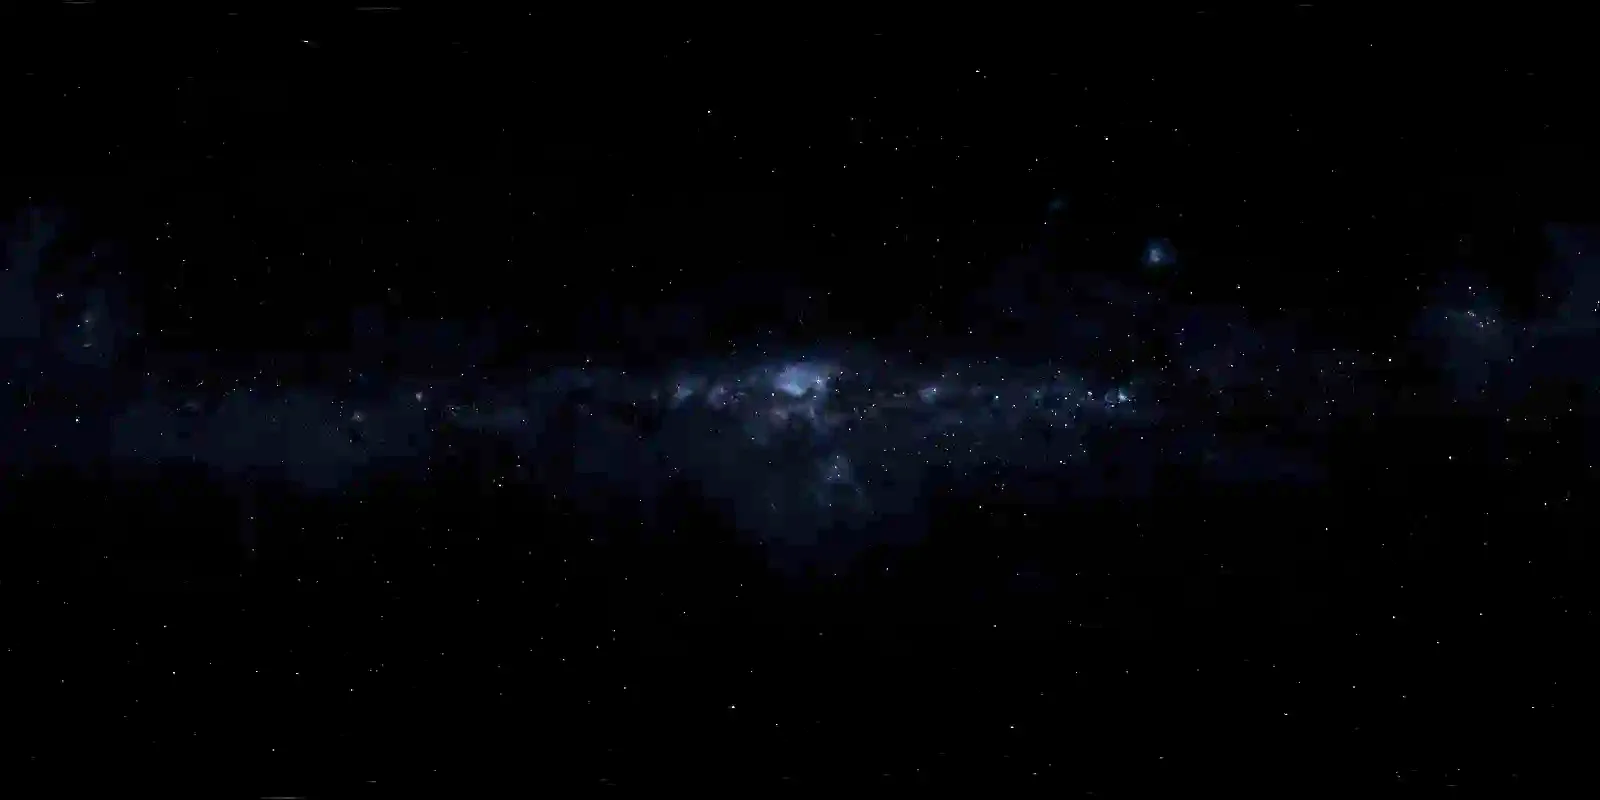
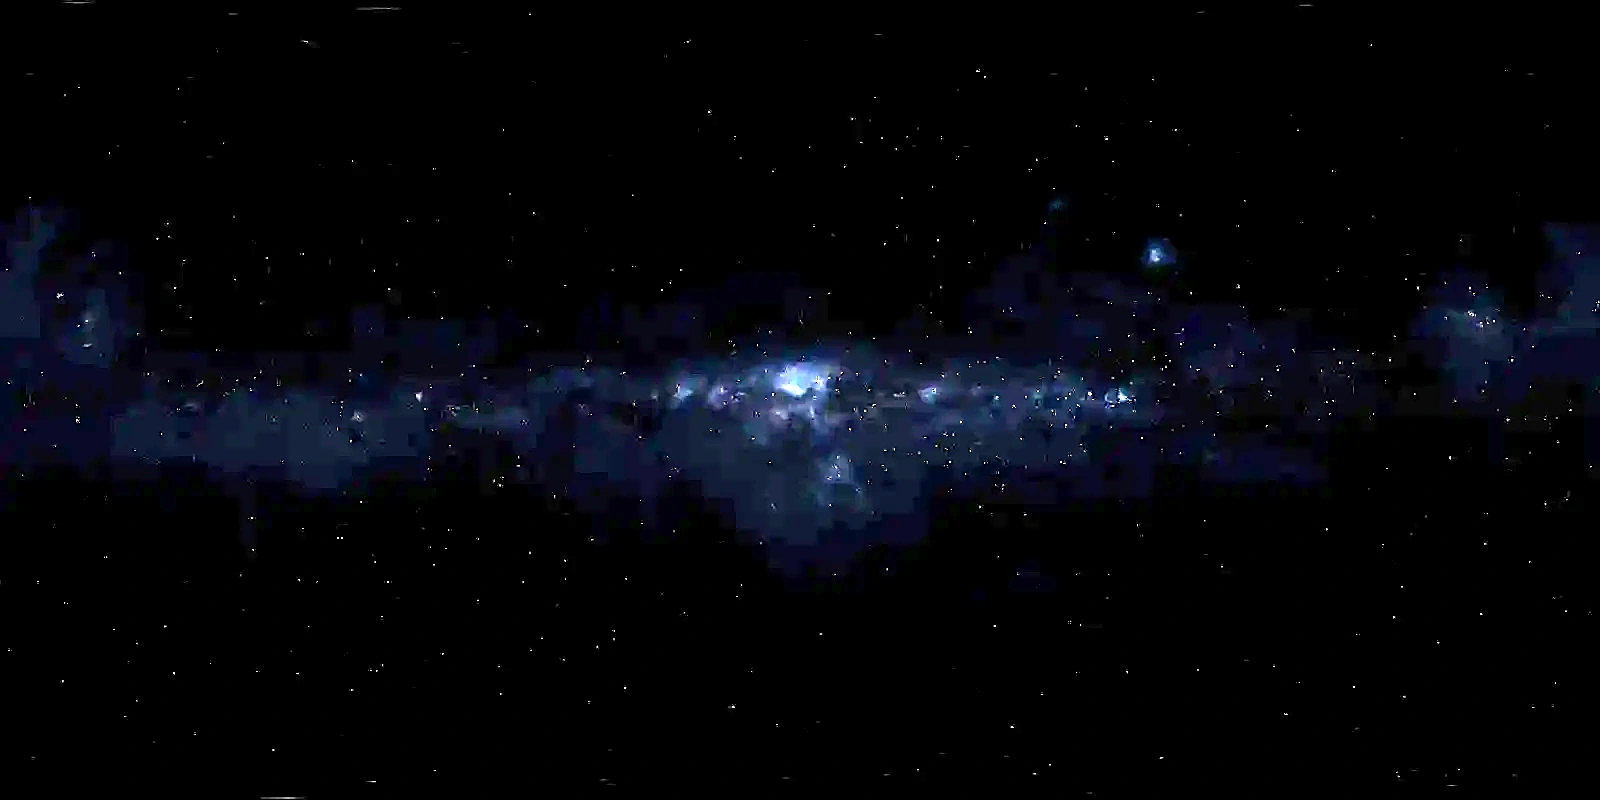
fix(wallpaper): improve Milky Way quality and visibility
- Desktop: 1.8x brightness + unsharp mask + quality 95 WebP (63KB)
- Mobile: same treatment (10KB)
- Dark overlay reduced to 30%/40% for clearer visibility

diff --git a/quartz/styles/custom.scss b/quartz/styles/custom.scss
@@ -1660,8 +1660,8 @@ body {
 :root[data-theme="dark"],
 html.theme-dark {
   $dark-overlay: linear-gradient(
-    color-mix(in srgb, var(--light) 45%, transparent),
-    color-mix(in srgb, var(--light) 55%, transparent)
+    color-mix(in srgb, var(--light) 30%, transparent),
+    color-mix(in srgb, var(--light) 40%, transparent)
   );
   background-image: $dark-overlay, url("static/wallpapers/milkyway-desktop.webp");
 
